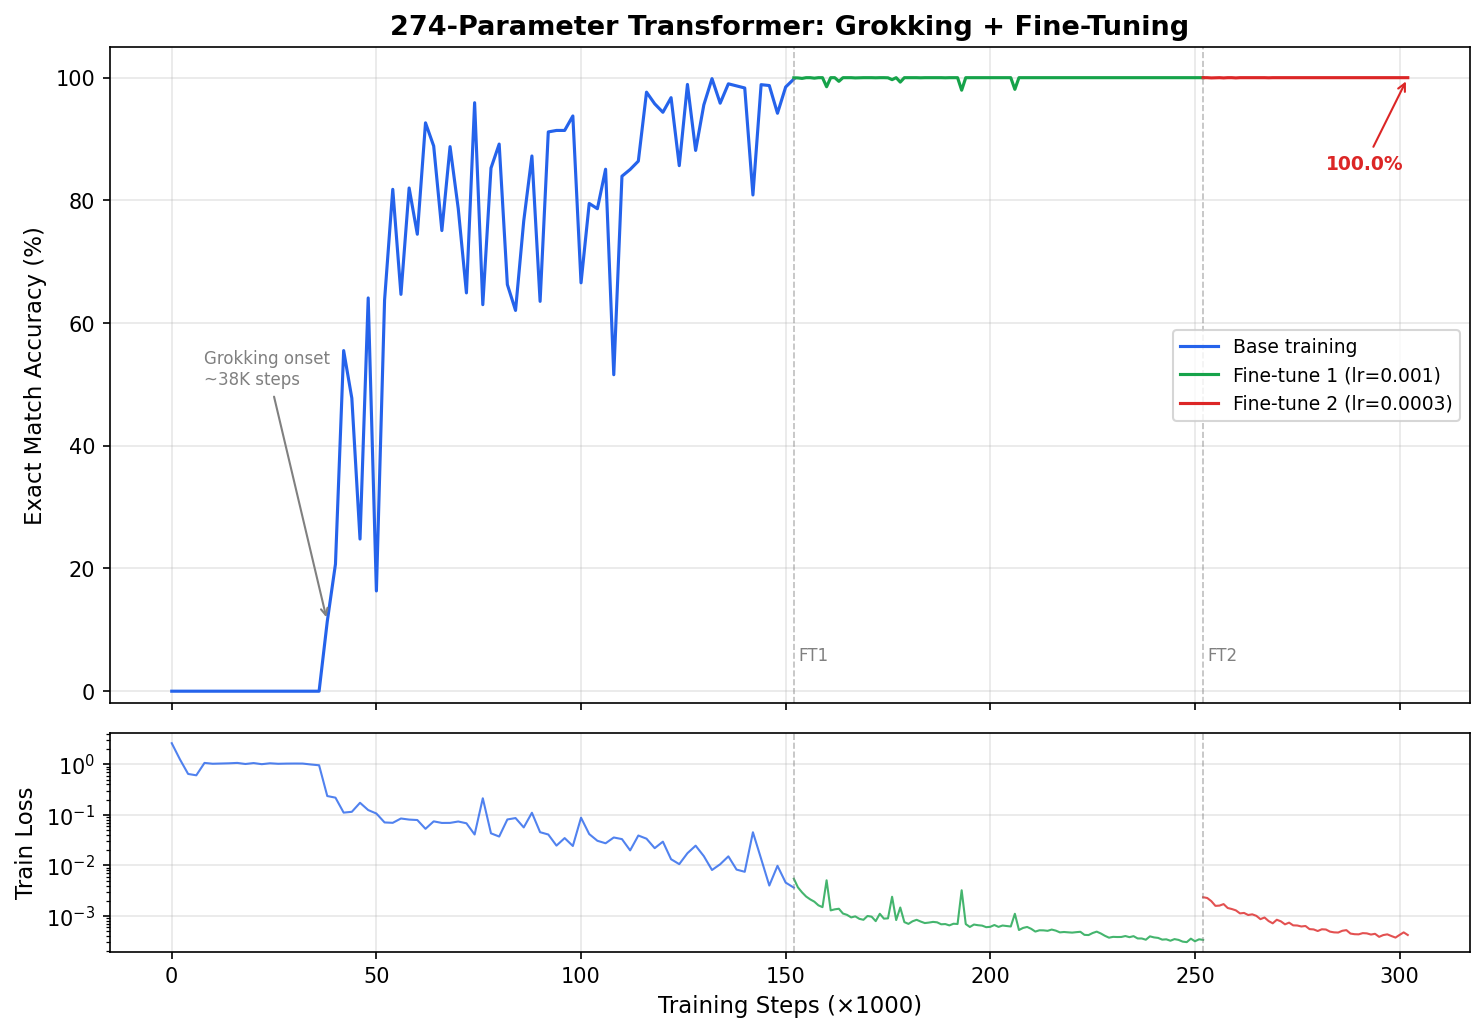
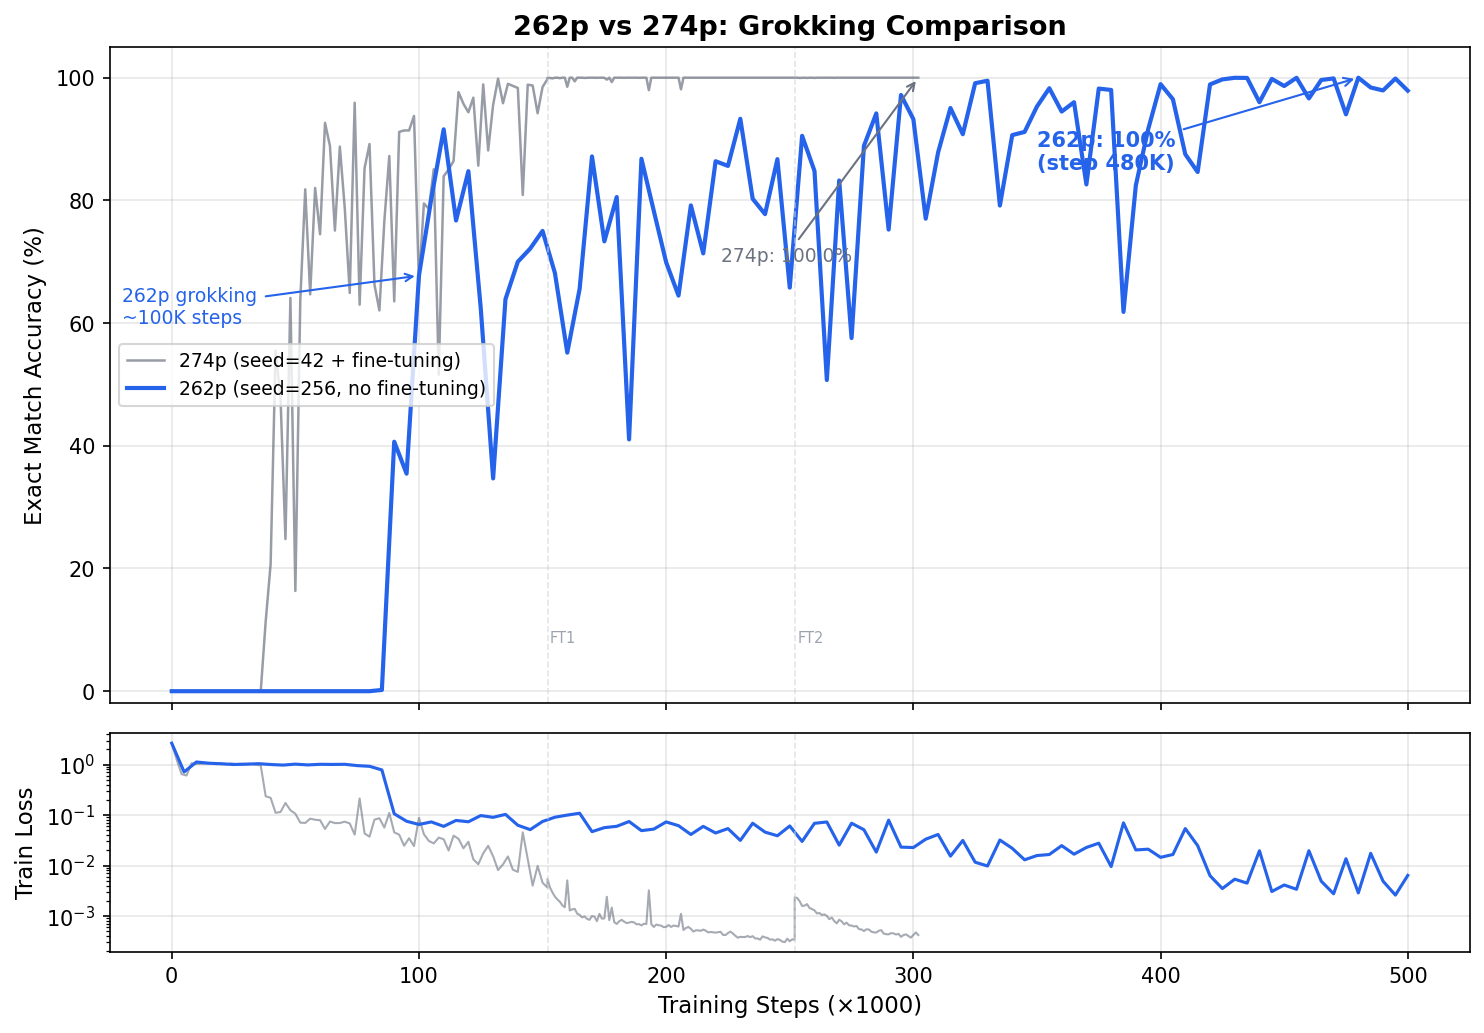
Update grokking plot: compare 262p vs 274p training curves
- 262p (blue): delayed grokking at ~100K, reaches 100% at 480K, no fine-tuning
- 274p (gray): faster grokking but requires 2 rounds of fine-tuning
- Annotate best accuracy and grokking onset for both models

diff --git a/plot_grokking.py b/plot_grokking.py
@@ -1,4 +1,4 @@
-"""Generate grokking + fine-tuning plot for the 274p model."""
+"""Generate grokking comparison plot: 274p (+ fine-tuning) vs 262p (single run)."""
 
 import csv
 import matplotlib
@@ -6,9 +6,13 @@ matplotlib.use("Agg")
 import matplotlib.pyplot as plt
 import numpy as np
 
-BASE_CSV = "../10-digit-addition/digit-addition-311p/results/runs/posrank2_274p_s42/metrics.csv"
-FT1_CSV = "../10-digit-addition/digit-addition-311p/results/finetune/posrank2_274p_ft1/metrics.csv"
-FT2_CSV = "../10-digit-addition/digit-addition-311p/results/finetune/posrank2_274p_ft2/metrics.csv"
+# 274p: base + 2 rounds of fine-tuning
+BASE_274_CSV = "../10-digit-addition/digit-addition-311p/results/runs/posrank2_274p_s42/metrics.csv"
+FT1_274_CSV = "../10-digit-addition/digit-addition-311p/results/finetune/posrank2_274p_ft1/metrics.csv"
+FT2_274_CSV = "../10-digit-addition/digit-addition-311p/results/finetune/posrank2_274p_ft2/metrics.csv"
+
+# 262p: single run, no fine-tuning
+BASE_262_CSV = "../10-digit-addition/digit-addition-311p/results/runs/dff6_262p_s256_500k/metrics.csv"
 
 
 def read_csv(path):
@@ -31,67 +35,84 @@ def read_csv(path):
 
 
 def main():
-    base = read_csv(BASE_CSV)
-    ft1 = read_csv(FT1_CSV)
-    ft2 = read_csv(FT2_CSV)
+    # --- Load 274p data ---
+    base274 = read_csv(BASE_274_CSV)
+    ft1 = read_csv(FT1_274_CSV)
+    ft2 = read_csv(FT2_274_CSV)
 
-    # Offset finetune steps to be cumulative
-    base_end = int(base["step"][-1])
-    ft1_offset = base_end
+    base274_end = int(base274["step"][-1])
+    ft1_offset = base274_end
     ft2_offset = ft1_offset + int(ft1["step"][-1])
 
+    # Concatenate 274p steps/accuracy/loss for a single series
+    steps_274 = np.concatenate([
+        base274["step"],
+        ft1["step"] + ft1_offset,
+        ft2["step"] + ft2_offset,
+    ])
+    exact_274 = np.concatenate([base274["exact"], ft1["exact"], ft2["exact"]])
+    loss_274 = np.concatenate([base274["loss"], ft1["loss"], ft2["loss"]])
+
+    # --- Load 262p data ---
+    base262 = read_csv(BASE_262_CSV)
+
+    # --- Plot ---
     fig, (ax1, ax2) = plt.subplots(2, 1, figsize=(10, 7), sharex=True,
                                      gridspec_kw={"height_ratios": [3, 1]})
 
-    # --- Top: Accuracy ---
-    ax1.plot(base["step"] / 1000, base["exact"] * 100,
-             color="#2563eb", linewidth=1.5, label="Base training")
-    ax1.plot((ft1["step"] + ft1_offset) / 1000, ft1["exact"] * 100,
-             color="#16a34a", linewidth=1.5, label="Fine-tune 1 (lr=0.001)")
-    ax1.plot((ft2["step"] + ft2_offset) / 1000, ft2["exact"] * 100,
-             color="#dc2626", linewidth=1.5, label="Fine-tune 2 (lr=0.0003)")
+    # Top: Accuracy
+    ax1.plot(steps_274 / 1000, exact_274 * 100,
+             color="#6b7280", linewidth=1.2, alpha=0.7, label="274p (seed=42 + fine-tuning)")
+    ax1.plot(base262["step"] / 1000, base262["exact"] * 100,
+             color="#2563eb", linewidth=2, label="262p (seed=256, no fine-tuning)")
 
-    # Phase boundaries
+    # Fine-tune boundaries for 274p
     for boundary, label in [(ft1_offset / 1000, "FT1"), (ft2_offset / 1000, "FT2")]:
-        ax1.axvline(boundary, color="gray", linestyle="--", alpha=0.5, linewidth=0.8)
-        ax1.text(boundary + 1, 5, label, fontsize=8, color="gray")
+        ax1.axvline(boundary, color="#d1d5db", linestyle="--", alpha=0.6, linewidth=0.8)
+        ax1.text(boundary + 1, 8, label, fontsize=7, color="#9ca3af")
 
     ax1.set_ylabel("Exact Match Accuracy (%)", fontsize=11)
     ax1.set_ylim(-2, 105)
-    ax1.legend(loc="center right", fontsize=9)
-    ax1.set_title("274-Parameter Transformer: Grokking + Fine-Tuning", fontsize=13, fontweight="bold")
+    ax1.legend(loc="center left", fontsize=9)
+    ax1.set_title("262p vs 274p: Grokking Comparison", fontsize=13, fontweight="bold")
     ax1.grid(True, alpha=0.3)
 
-    # Annotate key points
-    # Grokking onset
-    grok_idx = np.argmax(base["exact"] > 0.01)
+    # Annotate 262p grokking
+    grok_idx = np.argmax(base262["exact"] > 0.5)
     if grok_idx > 0:
-        grok_step = base["step"][grok_idx]
-        ax1.annotate(f"Grokking onset\n~{grok_step // 1000}K steps",
-                     xy=(grok_step / 1000, base["exact"][grok_idx] * 100),
-                     xytext=(grok_step / 1000 - 30, 50),
-                     arrowprops=dict(arrowstyle="->", color="gray"),
-                     fontsize=8, color="gray")
+        grok_step = base262["step"][grok_idx]
+        ax1.annotate(f"262p grokking\n~{grok_step // 1000}K steps",
+                     xy=(grok_step / 1000, base262["exact"][grok_idx] * 100),
+                     xytext=(grok_step / 1000 - 120, 60),
+                     arrowprops=dict(arrowstyle="->", color="#2563eb"),
+                     fontsize=9, color="#2563eb")
 
-    # Final accuracy
-    final_acc = ft2["exact"][-1] * 100
-    final_step = (ft2["step"][-1] + ft2_offset) / 1000
-    ax1.annotate(f"{final_acc:.1f}%",
-                 xy=(final_step, final_acc),
-                 xytext=(final_step - 20, 85),
-                 arrowprops=dict(arrowstyle="->", color="#dc2626"),
-                 fontsize=9, fontweight="bold", color="#dc2626")
+    # Annotate 262p best (not last — eval points may fluctuate)
+    best_262_idx = np.argmax(base262["exact"])
+    best_262 = base262["exact"][best_262_idx] * 100
+    best_262_step = base262["step"][best_262_idx]
+    ax1.annotate(f"262p: {best_262:.0f}%\n(step {best_262_step // 1000}K)",
+                 xy=(best_262_step / 1000, best_262),
+                 xytext=(best_262_step / 1000 - 130, 85),
+                 arrowprops=dict(arrowstyle="->", color="#2563eb"),
+                 fontsize=10, fontweight="bold", color="#2563eb")
 
-    # --- Bottom: Loss ---
-    ax2.plot(base["step"] / 1000, base["loss"],
-             color="#2563eb", linewidth=1, alpha=0.8)
-    ax2.plot((ft1["step"] + ft1_offset) / 1000, ft1["loss"],
-             color="#16a34a", linewidth=1, alpha=0.8)
-    ax2.plot((ft2["step"] + ft2_offset) / 1000, ft2["loss"],
-             color="#dc2626", linewidth=1, alpha=0.8)
+    # Annotate 274p final
+    final_274 = exact_274[-1] * 100
+    ax1.annotate(f"274p: {final_274:.1f}%",
+                 xy=(steps_274[-1] / 1000, final_274),
+                 xytext=(steps_274[-1] / 1000 - 80, 70),
+                 arrowprops=dict(arrowstyle="->", color="#6b7280"),
+                 fontsize=9, color="#6b7280")
+
+    # Bottom: Loss
+    ax2.plot(steps_274 / 1000, loss_274,
+             color="#6b7280", linewidth=1, alpha=0.6)
+    ax2.plot(base262["step"] / 1000, base262["loss"],
+             color="#2563eb", linewidth=1.5)
 
     for boundary in [ft1_offset / 1000, ft2_offset / 1000]:
-        ax2.axvline(boundary, color="gray", linestyle="--", alpha=0.5, linewidth=0.8)
+        ax2.axvline(boundary, color="#d1d5db", linestyle="--", alpha=0.6, linewidth=0.8)
 
     ax2.set_ylabel("Train Loss", fontsize=11)
     ax2.set_xlabel("Training Steps (×1000)", fontsize=11)
